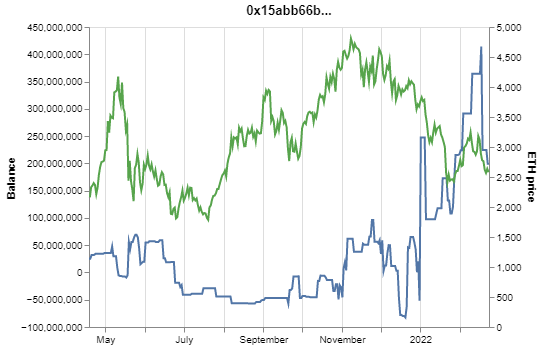
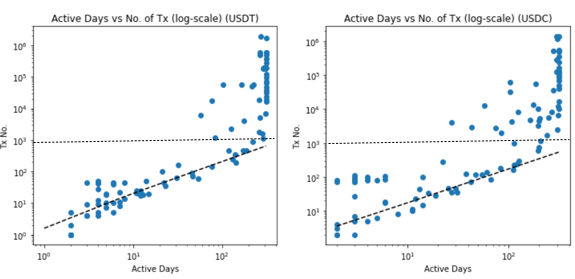
GitBook: [#331] Address Kunlun's and Collier's comments

diff --git a/analytics/metrics/sharpe-ratio-in-defi.md b/analytics/metrics/sharpe-ratio-in-defi.md
@@ -14,9 +14,9 @@ Using the Sharpe ratio as part of your fundamental analysis strategy helps to pr
 
 Sharpe ratio is defined as:
 
-![](<../../.gitbook/assets/image (3).png>)
+![](<../../.gitbook/assets/image (8).png>)
 
-Sharpe ratio can also be applied to a portfolio.&#x20;
+Sharpe ratio can be also used to construct or analyse performance of a portfolio.
 
 Let’s consider an example: investment into Asset X provides an expected return of 5% per annum and a standard deviation of 3.5% per annum. Sharpe ratio given risk-free rate is 0.25% equals 1.36.
 
@@ -32,17 +32,19 @@ Hence Sharpe ratio of 1.36 is a good level for investment purposes.
 
 Crypto markets are associated with abnormal returns and volatility.
 
+Let’s try to apply the same concept to cryptocurrencies. We’ve used different parameters for sampling and holding periods to understand index behaviour. Instead of a risk-free rate, we’ve used the minimum risk rate introduced by Credmark recently.
+
 Figure 1 provides an analysis of monthly returns for 23 DeFi tokens sampled over trailing 3 months, 6 months and 1 year from 19 January 2022.
 
 ![Figure 1](<../../.gitbook/assets/image (7).png>)
 
 Figure 2 - for fortnightly returns
 
-![Figure 2](<../../.gitbook/assets/image (8).png>)
+![Figure 2](<../../.gitbook/assets/image (8) (1).png>)
 
 Figure 3 - for weekly returns
 
-![Figure 3](<../../.gitbook/assets/image (6).png>)
+![Figure 3](<../../.gitbook/assets/image (6) (1).png>)
 
 Figure 4 - for daily returns
 
@@ -59,6 +61,8 @@ In a tabular form top three DeFi tokens based on 3 months, 6 months, and yearly 
 
 &#x20;Most consistent results are produced by CRV, ETH, SOL, and LINK.
 
+Based on the quantitative and qualitative considerations, including historical data availability and fast pace of changes in crypto markets, we’ve come with the following parametrization that is seen as most appropriate.
+
 ## Methodology
 
 Recommended parameterization for using Sharpe Ratio in DeFi is:
@@ -67,7 +71,7 @@ Recommended parameterization for using Sharpe Ratio in DeFi is:
 
 ![](<../../.gitbook/assets/image (5).png>)
 
-Time horizon and sampling parameters are selected for relatively short time frames due to the fast pace of innovation and nascency of the DeFi ecosystem. The rapid change in the environment of crypto markets might require more frequent rebalancing, so a two-week return appears more appropriate. 6 months sampling period is also supported by newly minted tokens not having sufficient historical data.
+[Minimum risk rate methodology is covered in a separate document](../data/modeling/risk-free-rate.md). Time horizon and sampling parameters are selected for relatively short time frames due to the fast pace of innovation and nascency of the DeFi ecosystem. The rapid change in the environment of crypto markets might require more frequent rebalancing, so a two-week return appears more appropriate. 6 months sampling period is also supported by newly minted tokens not having sufficient historical data.
 
 ## Index Application
 
@@ -79,9 +83,11 @@ For example, the top Sharpe ratio is produced by CRV and equals to (12.65% - 2%/
 
 Although Sharpe ratio is a traditional measure, it’s important to understand it conceptually in light of all underlying assumptions and parameters.
 
-As can be seen, top DeFi assets show smaller Sharpe ratios compared to traditional financial instruments, classified as a “bad” investment. This is due to the high volatility of returns inherent in the crypto markets, in the CRV example above it's 26.1%.
+As can be seen, top DeFi assets show smaller Sharpe ratios compared to traditional financial instruments, classified as “bad” investment. This is due to high volatility of returns inherent in the crypto markets, in the example above its 26.1%. Most of the volatility is upside which is in fact beneficial for investors. Sharpe ratio is direction-agnostic so capturing the upside potential as a risk is a known limitation of the Sharpe ratio, which is addressed by Sortino ratio. Sortino ratio (to be detailed in another article) is a better metric to use for higher risk investments and could be a better metric for DeFi in its nascency.
 
-However, most of the volatility is upside which is beneficial for investors. Sharpe ratio is direction-agnostic so capturing the upside potential as a risk is a known limitation of the Sharpe ratio, which is addressed by Sortino ratio. Sortino ratio (to be detailed in another article) is a better metric to use for higher risk investments and could be a better metric for DeFi in its nascency.
+However, DeFi Sharpe ratios would improve and show better results than assets in TradFi once there is simply more history. In the example above median fortnightly return is 12.65% which in annualized terms is 328% which is significantly better than any other ordinary asset performance.
+
+Sharpe index is also a useful tool to compare DeFi tokens performance and construct an optimal risk-return portfolio. And Figure 5 is an example of such comparison as of 19 January 2022.
 
 ## References
 

diff --git a/analytics/data/methodologies/market-data-issues-and-techniques.md b/analytics/data/methodologies/market-data-issues-and-techniques.md
@@ -58,7 +58,7 @@ To visualize, below figure shows the the change of the balance from Apr 2021 to 
 
 As we apply this backfilling method to the history from Apr 2021 to Feb 2022, we obtain below figure. The sharp edges in above figure (due to empty value) has changed to flat-jump form (backfilled). This is the expected behavior of an wallet when there is no transaction.
 
-![Account balance change for an ERC-20 token in 0x15abb... from Apr 2021 to Feb 2022. Backfilled. (See above for the note on the negative balance)](<../../../.gitbook/assets/image (8) (1) (1).png>)
+![Account balance change for an ERC-20 token in 0x15abb... from Apr 2021 to Feb 2022. Backfilled. (See above for the note on the negative balance)](<../../../.gitbook/assets/image (8) (1) (1) (1).png>)
 
 There will be more examples in dealing with various types of data. We will enrich this WIP (Work-in-progress) article.
 

diff --git a/analytics/data/modeling/account-level-data-for-lending-protocols-aave-and-compound.md b/analytics/data/modeling/account-level-data-for-lending-protocols-aave-and-compound.md
@@ -1,4 +1,4 @@
-# Account level data for lending protocols (Aave and Compound)
+# 🚀 Account level data for lending protocols (Aave and Compound)
 
 ## **Executive Summary:**
 
@@ -22,7 +22,7 @@ We fetched the on-chain Ethereum data for available via publicly available googl
 
 Below screenshot shows the overall usage summary around DAI  pool and different user actions i.e. lending (aka mint), borrowing, repaying etc.
 
-![DAI pool Transaction Summary (Compound Protocol)](<../../../.gitbook/assets/image (6) (1) (1).png>)
+![DAI pool Transaction Summary (Compound Protocol)](<../../../.gitbook/assets/image (6) (1) (1) (1).png>)
 
 Summary of different visuals shown in above screenshot is as follows:
 

diff --git a/analytics/data/modeling/account-level-data-for-usdc-and-usdt.md b/analytics/data/modeling/account-level-data-for-usdc-and-usdt.md
@@ -2,7 +2,7 @@
 description: 'tag:'
 ---
 
-# Account level data for USDC and USDT
+# 🚀 Account level data for USDC and USDT
 
 ## Executive Summary
 

diff --git a/analytics/data/modeling/var-of-liquidity-providing-to-uniswap-v2-and-v3.md b/analytics/data/modeling/var-of-liquidity-providing-to-uniswap-v2-and-v3.md
@@ -1,4 +1,4 @@
-# VaR of Liquidity Providing to Uniswap V2 and V3
+# 🚀 VaR of Liquidity Providing to Uniswap V2 and V3
 
 ## **Executive Summary**
 

diff --git a/analytics/data/methodologies/on-chain-market-data.md b/analytics/data/methodologies/on-chain-market-data.md
@@ -1,4 +1,4 @@
-# On-chain market data
+# 🚀 On-chain market data
 
 ### Introduction
 
